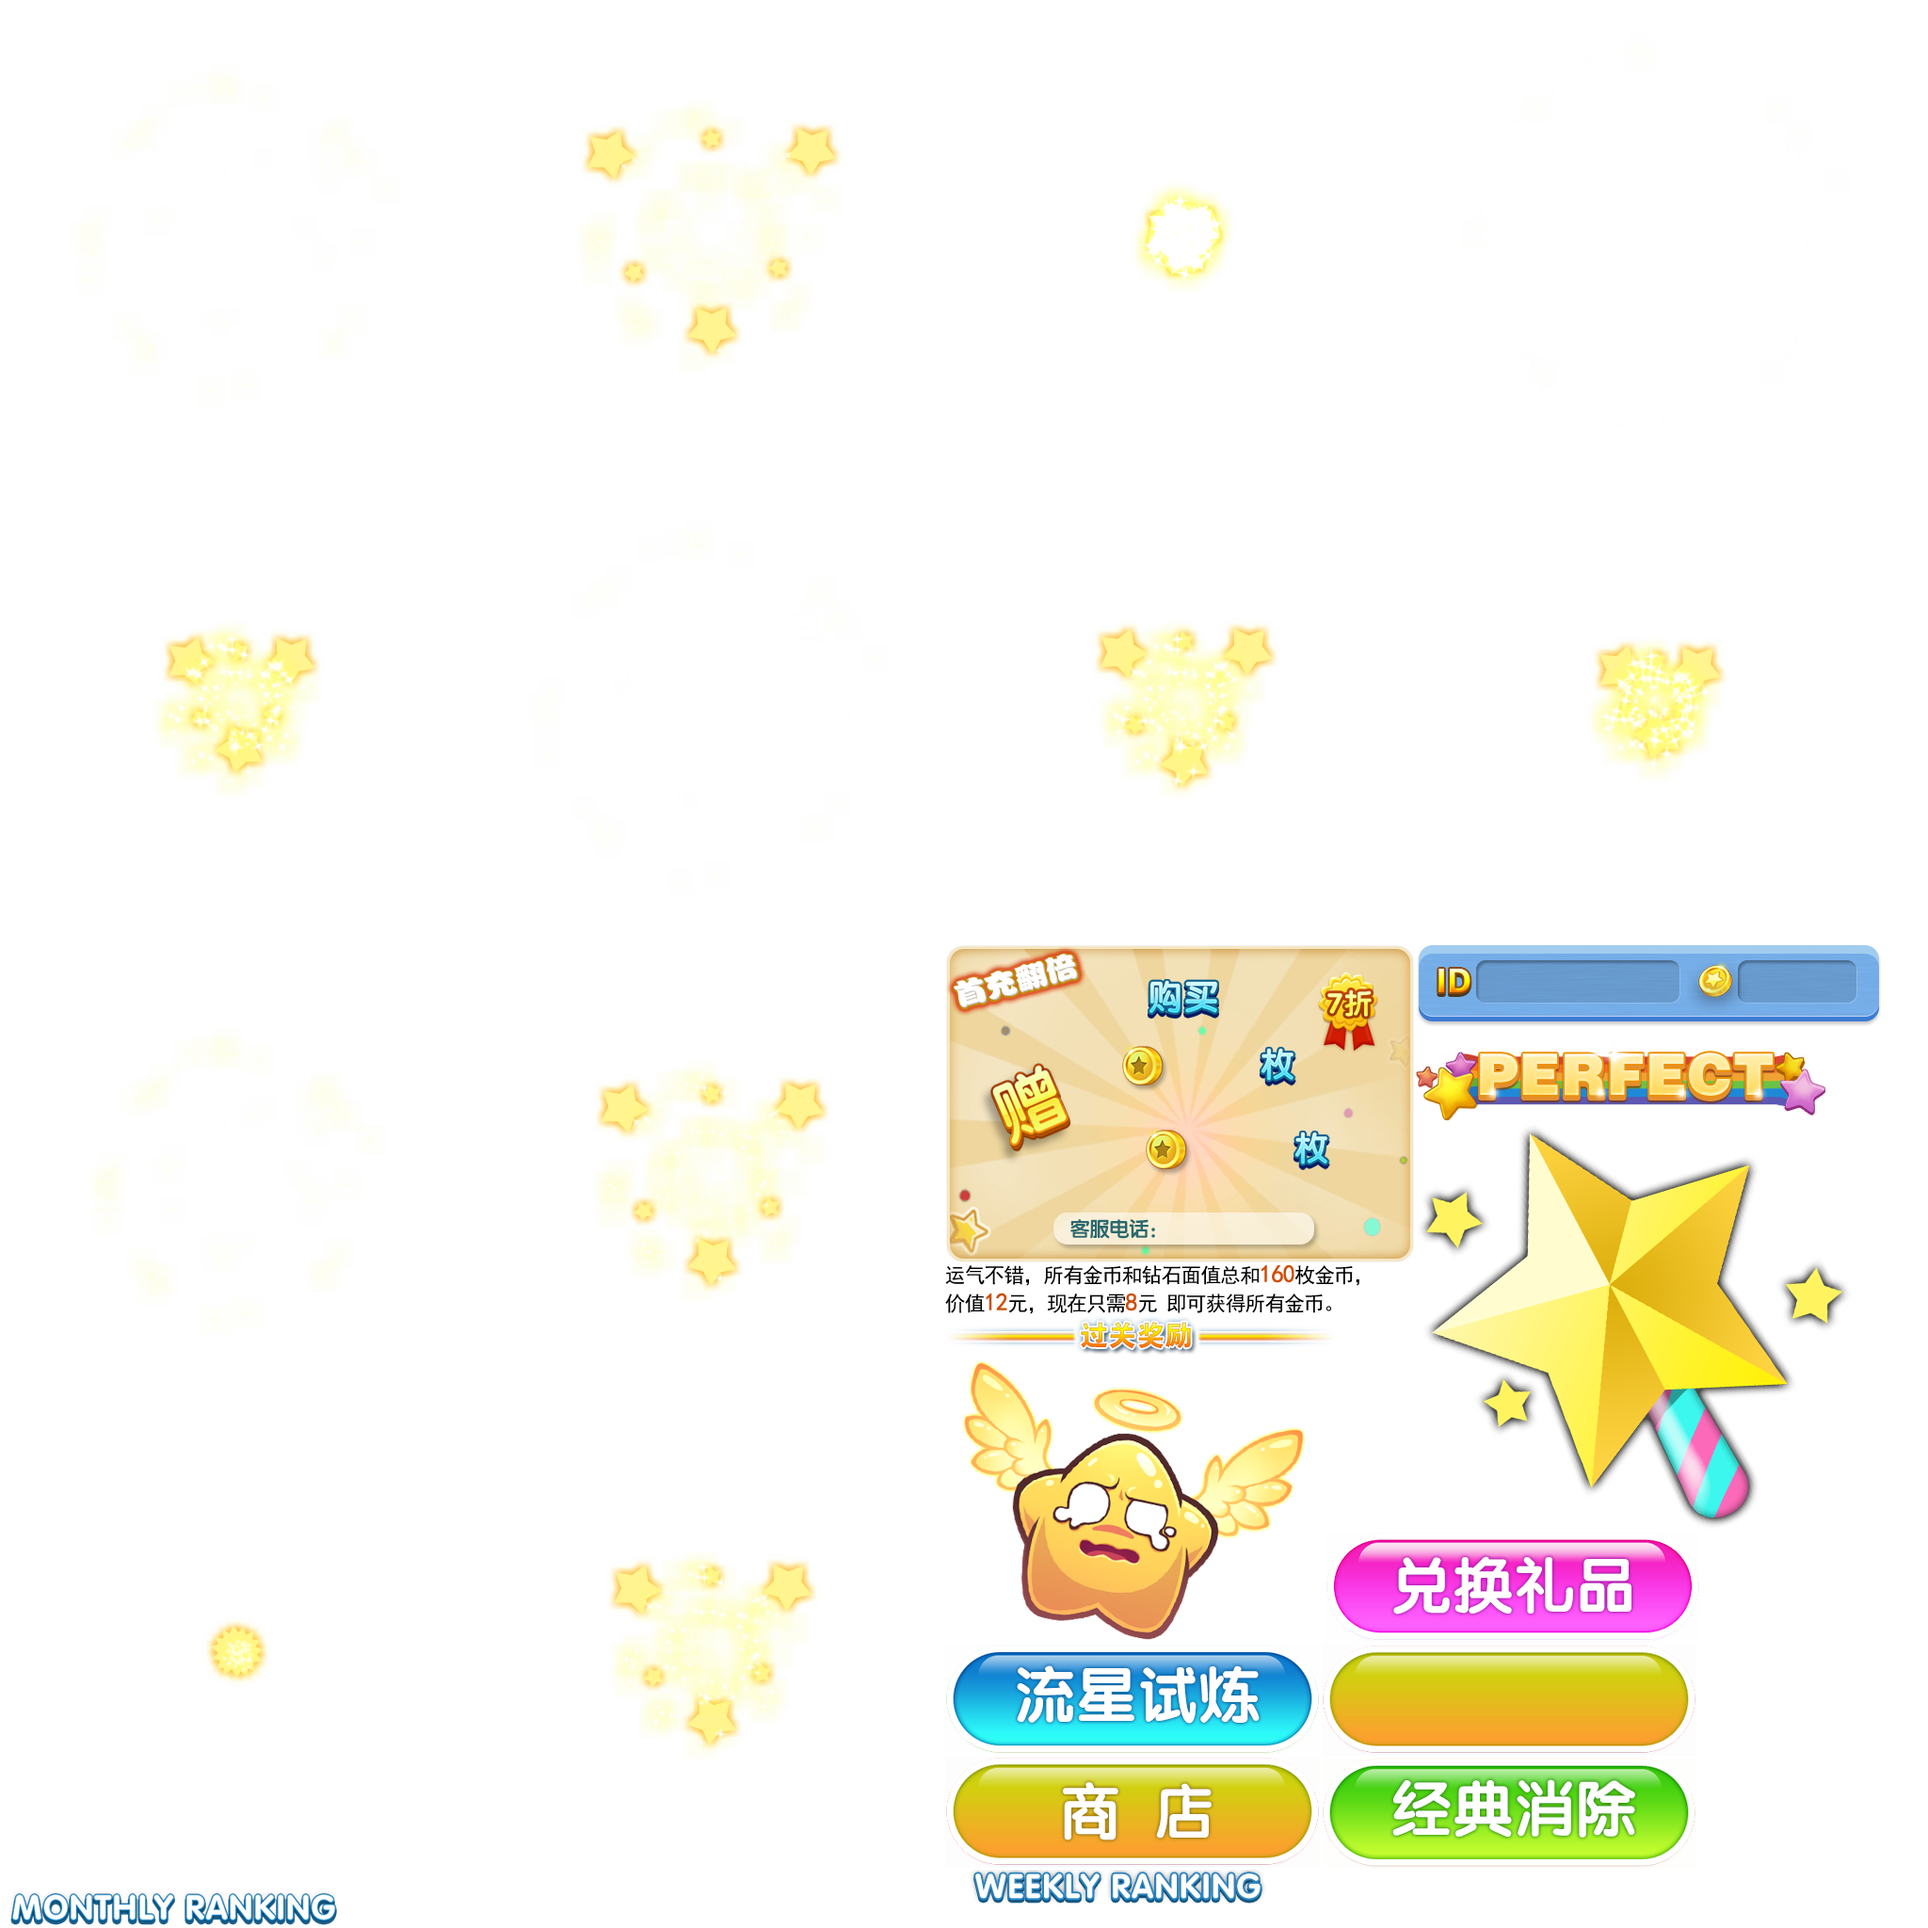
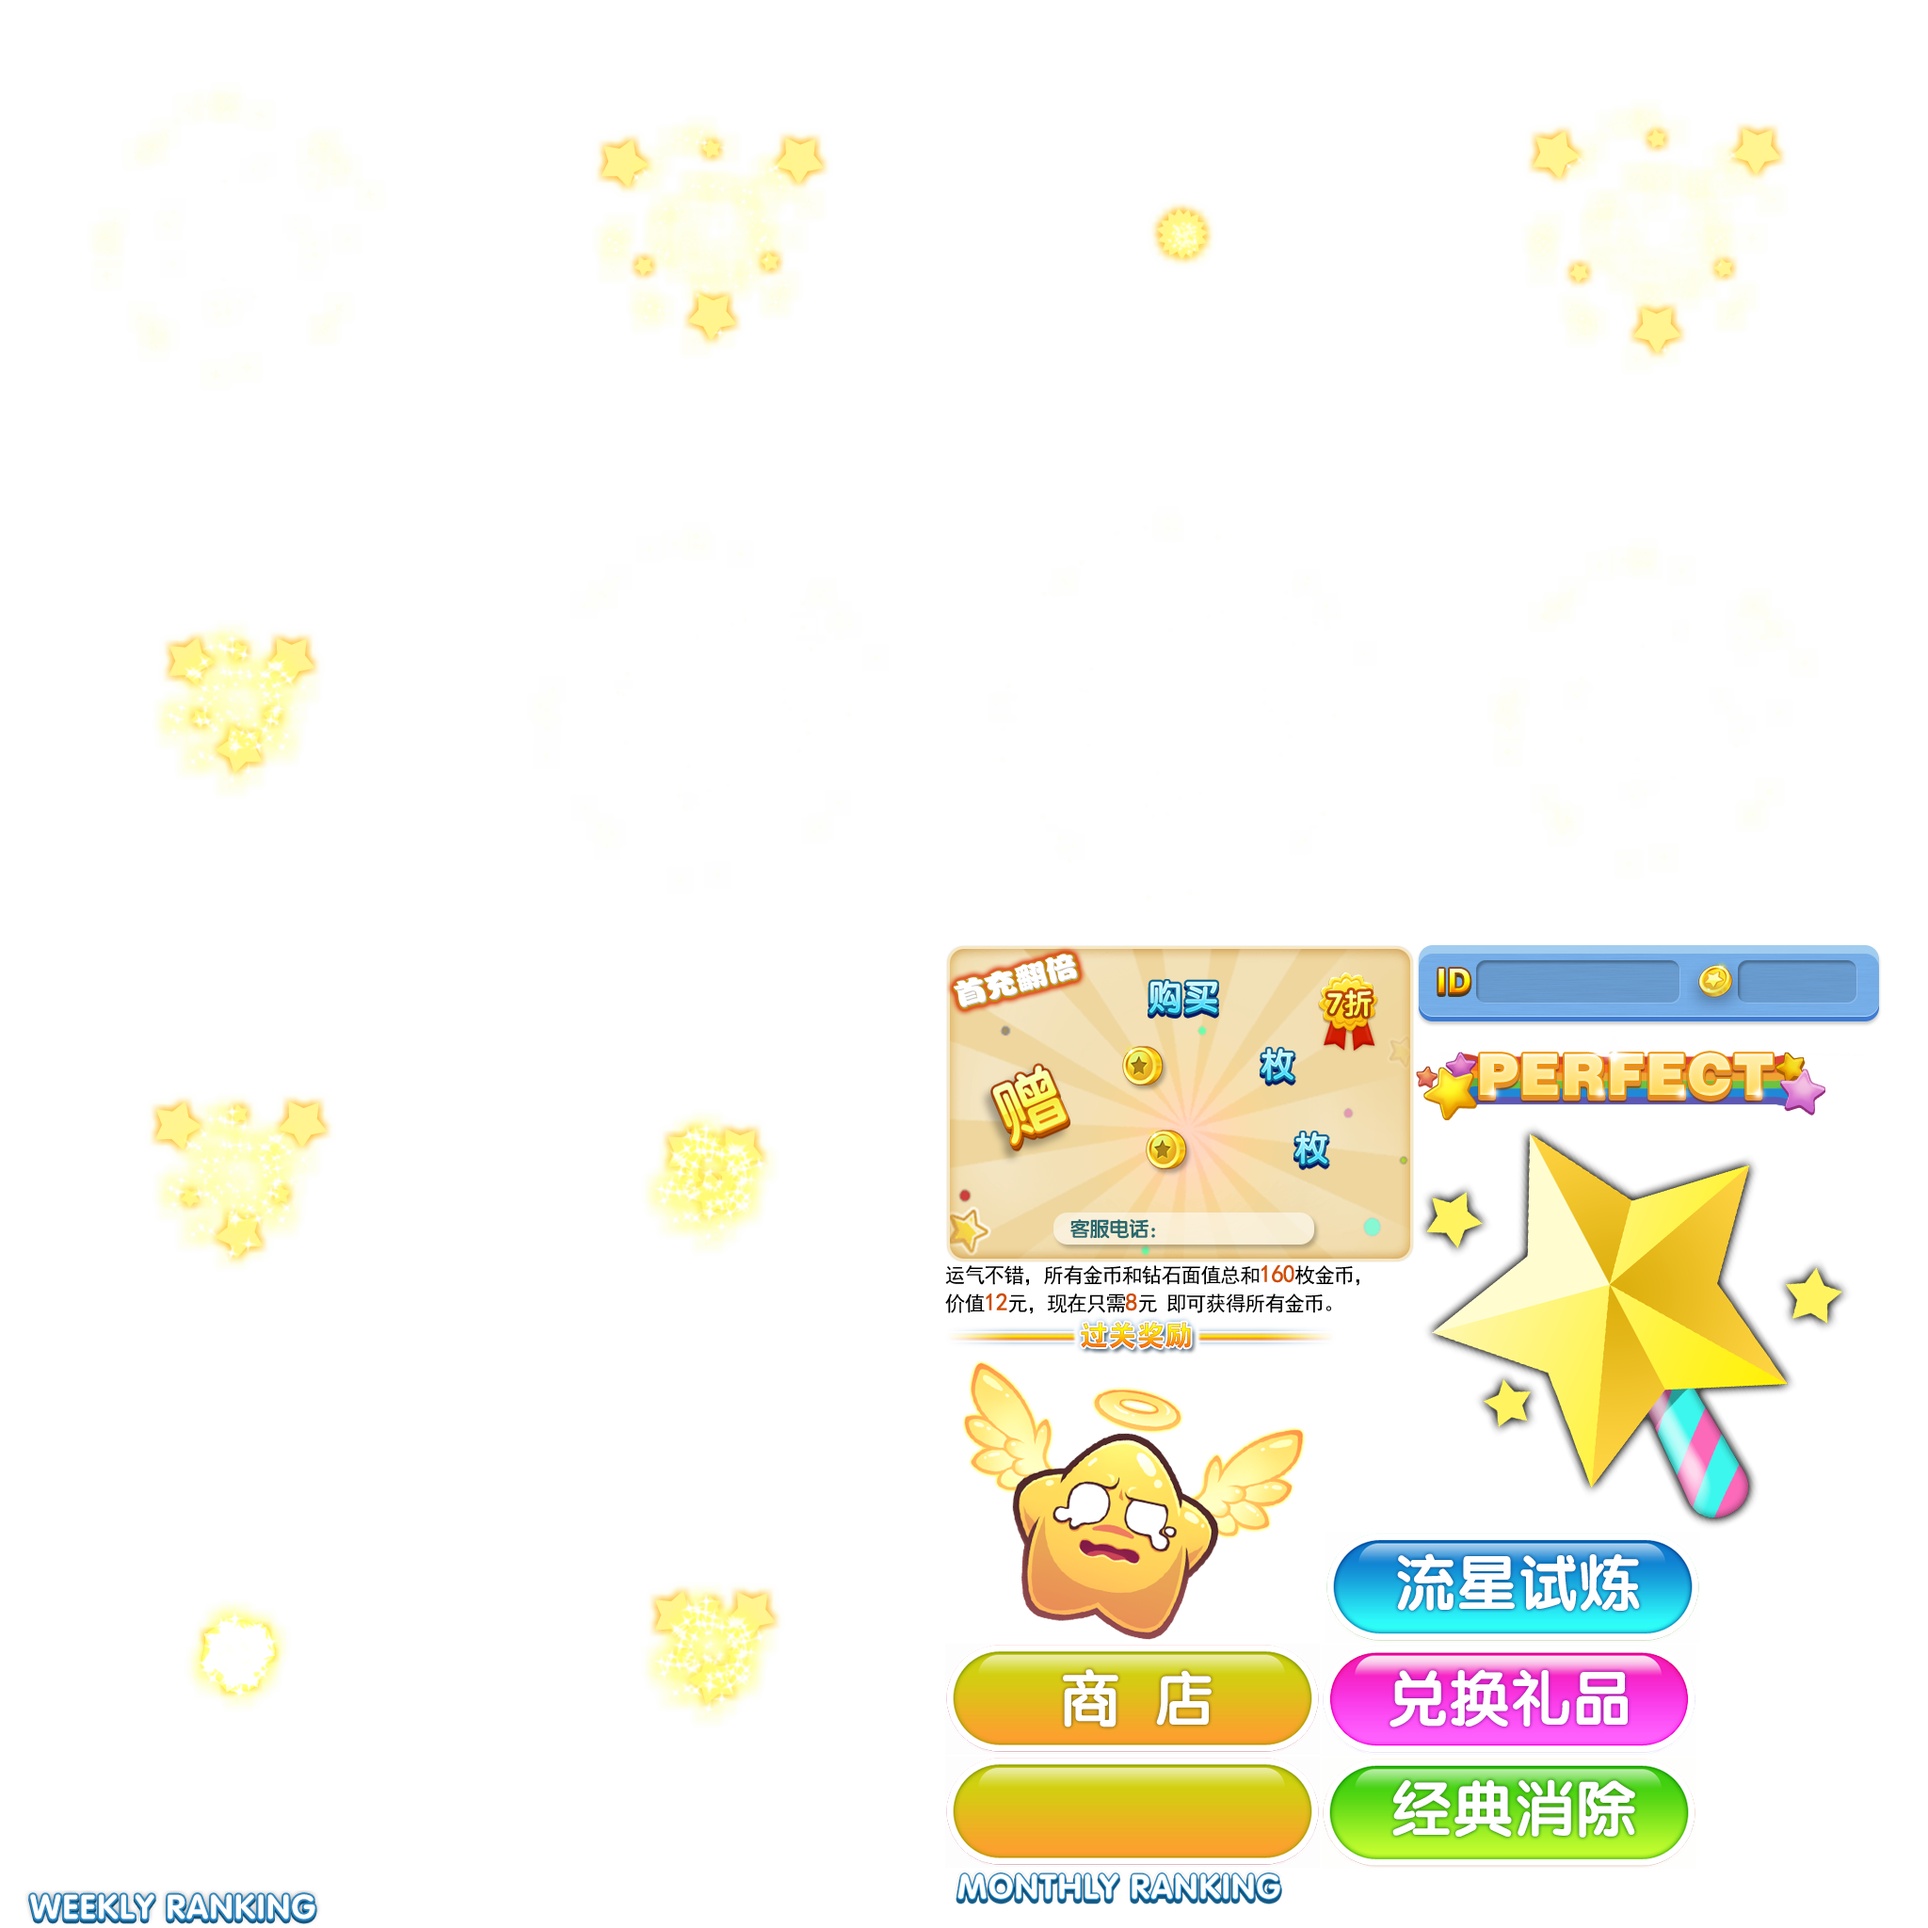
fixed some bugs

diff --git a/src/Main.ts b/src/Main.ts
@@ -99,6 +99,12 @@ class Main extends egret.DisplayObjectContainer {
         Util.init();
         LocalStorage.init();
 
+        // 更新一下周排行和月排行的数据
+        // const now = new Date();
+        // const lastWeekRankRecoed:number = LocalStorage.getItem(LocalStorageKey.weekRankRecord);
+        // const nowWeekRankRecoed = Util.getWeekIndex(now);
+        // if(lastWeekRankRecoed !=)
+
         fairygui.UIPackage.addPackage("Package1");
         this.stage.addChild(fairygui.GRoot.inst.displayObject);
         Main.stageWidth = this.stage.stageWidth;
@@ -112,7 +118,7 @@ class Main extends egret.DisplayObjectContainer {
         LiuXingResultPanel.instance.addEventListener(StarEvent.ENTER_MAIN_SCREEN, this._onEnterMainScreen, this);
         this._onEnterMainScreen();
 
-        console.log(TDGA.getDeviceId());
+        console.log('设备号：' + TDGA.getDeviceId());
     }
 
     private _onEnterMainScreen(evt?: StarEvent): void {
@@ -155,7 +161,8 @@ class Main extends egret.DisplayObjectContainer {
 
     private _onEnterLevel(evt: StarEvent): void {
         const lastLevel: number = LocalStorage.getItem(LocalStorageKey.lastLevel);
-        if (lastLevel + 1 <= evt.level) {
+        const lastFailedLevel: number = LocalStorage.getItem(LocalStorageKey.lastFailedLevel);
+        if (lastLevel + 1 < evt.level || (lastLevel + 1 == evt.level && lastFailedLevel != evt.level)) {
             this._enterLevel();
         } else {
             this._targetLevel = evt.level;
@@ -175,7 +182,8 @@ class Main extends egret.DisplayObjectContainer {
             uiPanel.getChild('n5').addClickListener(this._onLevelSelectorOK, this);
             uiPanel.getChild('n16').text = Util.getTargetScore(evt.level).toString();
             // 从这一关开始玩所需要消耗的金币
-            uiPanel.getChild('n13').text = '0';
+            uiPanel.data = lastFailedLevel == evt.level ? 6 : 0;
+            uiPanel.getChild('n13').text = uiPanel.data.toString();
 
             levelSelector.getController('c1').selectedIndex = 1;
             levelSelector.getTransition('t0').play();
@@ -186,12 +194,28 @@ class Main extends egret.DisplayObjectContainer {
     private _onLevelSelectorCancel(evt: egret.TouchEvent, cb?: Function): void {
         const levelSelector = (evt.currentTarget as fairygui.GButton).parent.parent;
         const uiPanel = levelSelector.getChild('n0').asCom;
+        let paySuccess = true;
+        const costDollar: number = uiPanel.data;
+        if (costDollar > 0) {
+            const myDollar: number = LocalStorage.getItem(LocalStorageKey.dollar);
+            if (myDollar >= costDollar) {
+                LocalStorage.setItem(LocalStorageKey.dollar, myDollar - costDollar);
+                LocalStorage.saveToLocal();
+            } else {
+                paySuccess = false;
+            }
+        }
         uiPanel.getChild('n4').removeClickListener(this._onLevelSelectorCancel, this);
         uiPanel.getChild('n5').removeClickListener(this._onLevelSelectorOK, this);
         levelSelector.getTransition('t2').play(() => {
             levelSelector.removeFromParent();
             levelSelector.dispose();
-            if (cb) cb.call(this);
+            if (paySuccess) {
+                if (cb) cb.call(this);
+            } else {
+                // 钱不够
+                PayPanel.instance.show();
+            }
         }, this);
     }
 

diff --git a/src/Util.ts b/src/Util.ts
@@ -86,7 +86,7 @@ class Util {
 		const curLv = Util.getLv(exp);
 		const newLv = Util.getLv(exp + addExp);
 		if (curLv != newLv) {
-			return Util._expAward[newLv];
+			return Util._expAward[newLv - 1];
 		}
 		return -1;
 	}
@@ -153,5 +153,51 @@ class Util {
 		if (score > 7000) return 172;
 		if (score > 6000) return 637;
 		return score - (score - 6000);
+	}
+
+	static getLeftDaysInMonth(nowDate) {
+		const now = nowDate.getDate();
+		let year = nowDate.getYear();
+		if (year < 2000) year += 1900;
+		const month = nowDate.getMonth();
+		const monarr = [31, 28, 31, 30, 31, 30, 31, 31, 30, 31, 30, 31];
+		if (((year % 4 == 0) && (year % 100 != 0)) || (year % 400 == 0)) {
+			monarr[1] = 29;
+		}
+		return monarr[month] - now;
+	}
+
+	/**
+	* 获取某年的某天是第几周
+	*/
+	static getWeekIndex(nowDate) {
+		let year = nowDate.getFullYear(),
+			month = nowDate.getMonth(),
+			days = nowDate.getDate();
+		//那一天是那一年中的第多少天
+		for (let i = 0; i < month; i++) {
+			days += Util.getMonthDays(year, i);
+		}
+
+		//那一年第一天是星期几
+		let yearFirstDay = new Date(year, 0, 1).getDay() || 7;
+
+		let week = null;
+		if (yearFirstDay == 1) {
+			week = Math.ceil(days / yearFirstDay);
+		} else {
+			days -= (7 - yearFirstDay + 1);
+			week = Math.ceil(days / 7) + 1;
+		}
+
+		return week;
+	}
+
+	static getMonthDays(year, month) {
+		return [31, null, 31, 30, 31, 30, 31, 31, 30, 31, 30, 31][month] || (Util.isLeapYear(year) ? 29 : 28);
+	}
+
+	static isLeapYear(year) {
+		return (year % 400 == 0) || (year % 4 == 0 && year % 100 != 0);
 	}
 }

diff --git a/src/LocalStorage.ts b/src/LocalStorage.ts
@@ -1,6 +1,6 @@
 
 enum LocalStorageKey {
-    lastLevel, totalScore, levelScore, touchType, soundEnabled, dollar, exp, maxTotalScore, item1, item2, item3, lastFetchLoginAwardTime, fetchLoginAwardCount, diamonds, item4, liuXingMax, userName
+    lastLevel, totalScore, levelScore, touchType, soundEnabled, dollar, exp, maxTotalScore, item1, item2, item3, lastFetchLoginAwardTime, fetchLoginAwardCount, diamonds, item4, liuXingMax, userName, lastFailedLevel, weekRankRecord, weekRank, weekScore, monthRankRecord, monthRank, monthScore
 }
 
 class LocalStorage {
@@ -13,7 +13,7 @@ class LocalStorage {
         if (!LocalStorage._isInited) {
             const s = egret.localStorage.getItem('star');
             if (!s) {
-                LocalStorage.localStorageData = [0, 0, [], 1, true, 0, 0, 0, 0, 0, 0, 0, 0, 0, 0, 0, 0];
+                LocalStorage.localStorageData = [0, 0, [], 1, true, 0, 0, 0, 0, 0, 0, 0, 0, 0, 0, 0, 0, 0, -1, 0, 0, -1, 0, 0];
             } else {
                 LocalStorage.localStorageData = JSON.parse(s);
             }

diff --git a/src/panel/LevelUpAwardPanel.ts b/src/panel/LevelUpAwardPanel.ts
@@ -18,9 +18,9 @@ class LevelUpAwardPanel extends BasePanel {
 	}
 
 	protected _init(): void {
-		this._ui = Main.createComponent('等级奖励弹窗', 670, 550);
+		this._ui = Main.createComponent('等级奖励弹窗', 670, 500);
 		this._ui.x = (Main.stageWidth - 670) >> 1;
-		this._ui.y = (Main.stageHeight - 550) >> 1;
+		this._ui.y = (Main.stageHeight - 500) >> 1;
 		this._ui.getController('c1').selectedIndex = 1;
 		const ui = this._ui.getChild('n0').asCom;
 		ui.getChild('n22').addClickListener(this._onFetchAward, this);

diff --git a/src/panel/RankPanel.ts b/src/panel/RankPanel.ts
@@ -28,6 +28,17 @@ class RankPanel extends BasePanel {
 
 		ui.getChild('n32').addClickListener(this._onFetchWeekAward, this);
 		ui.getChild('n42').addClickListener(this._onFetchMonthAward, this);
+
+		const now = new Date();
+		// 周排行剩余天数
+		const nowday = now.getDay();
+		let leftDay = 1;
+		if (nowday > 0) {
+			leftDay = 8 - nowday;
+		}
+		ui.getChild('n46').text = leftDay.toString();
+		// 月排行剩余天数
+		ui.getChild('n48').text = Util.getLeftDaysInMonth(now).toString();
 	}
 
 	/**

diff --git a/src/screen/play/PlayScene.ts b/src/screen/play/PlayScene.ts
@@ -587,6 +587,9 @@ class PlayScene extends BaseScreen {
 					}
 				} else {
 					// 失败了
+					const curLevel = LocalStorage.getItem(LocalStorageKey.lastLevel) + 1;
+					LocalStorage.setItem(LocalStorageKey.lastFailedLevel, curLevel);
+					LocalStorage.saveToLocal();
 					FailPanel.instance.show();
 				}
 			}
